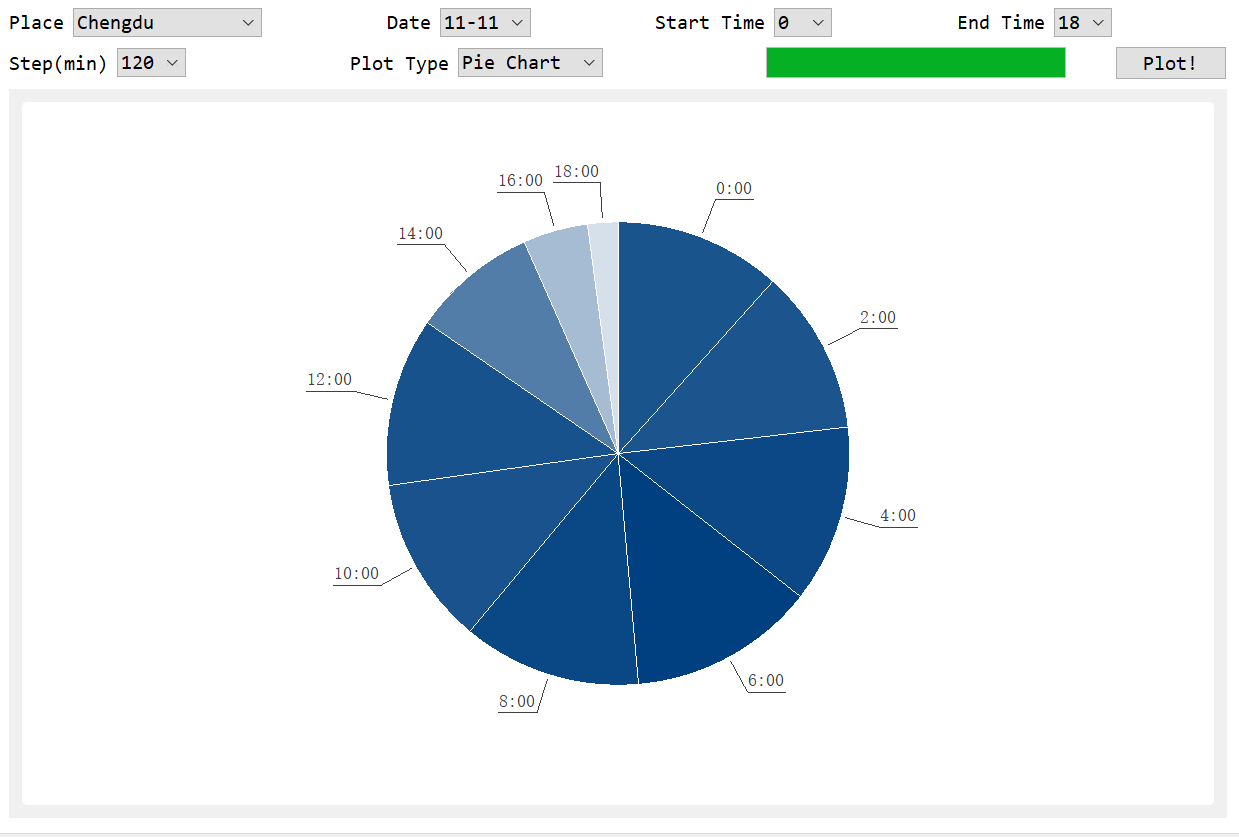
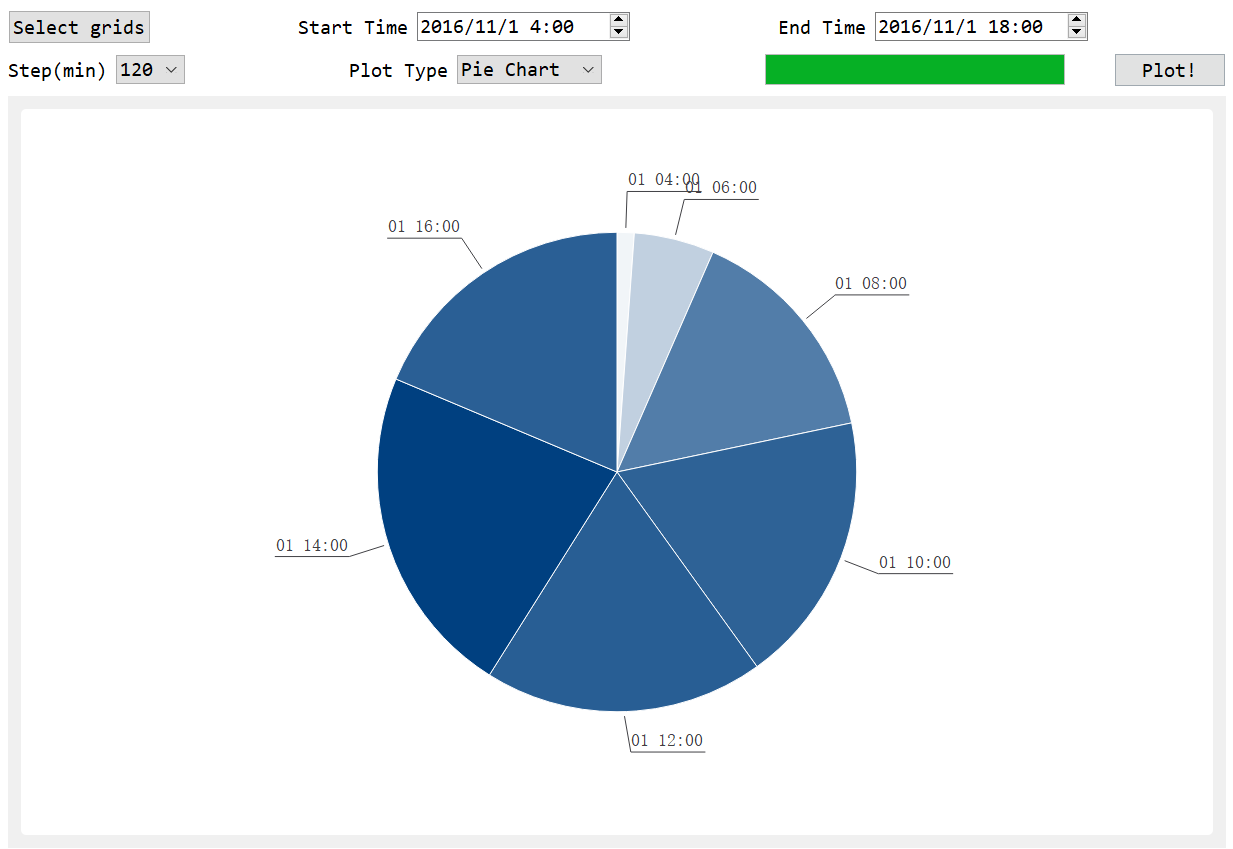
to:continue ver0.5

diff --git a/final/final/infoplot.cpp b/final/final/infoplot.cpp
@@ -102,28 +102,62 @@ void InfoPlot::plotMap() {
 }
 
 void InfoPlot::plotSeries() {
+    QFont font("consolas", 10);
     auto series = new QSplineSeries();
-    vector<pair<int, double>> data_series;
+    vector<pair<long long, double>> data_series;
     calcSeries(data_series);
     progress_bar->setValue(90);
-
-    for (const auto &wi : data_series)
+    double max_value = 0;
+    for (const auto &wi : data_series) {
         series->append(wi.first, wi.second);
+        max_value = std::max(max_value, wi.second);
+    }
+
     auto chart = new QChart();
     chart->setAnimationDuration(QChart::SeriesAnimations);
     chart->legend()->hide();
-    chart->createDefaultAxes();
+    //    chart->setTitle("Number of Orders");
+    chart->setFont(font);
+
+    // x_axis
+    auto x_axis = new QDateTimeAxis();
+    x_axis->setTickCount(10);
+
+    if (interval == DAY) {
+        x_axis->setFormat("hh:mm");
+        x_axis->setRange(QDateTime(QDate(2016, 11, 1), QTime(0, 0)), QDateTime(QDate(2016, 11, 2), QTime(0, 0)));
+    } else {
+        x_axis->setFormat("d hh:mm");
+        x_axis->setRange(QDateTime(QDate(2016, 11, 1), QTime(0, 0)), QDateTime(QDate(2016, 11, 16), QTime(0, 0)));
+    }
+    x_axis->setTitleText("time");
+    x_axis->setGridLineVisible(true);
+    x_axis->setLabelsAngle(-45);
+    x_axis->setLabelsFont(font);
+    x_axis->setLineVisible(true);
+
+    chart->addAxis(x_axis, Qt::AlignBottom);
+    series->attachAxis(x_axis);
+
+    // y_axis
+    auto y_axis = new QValueAxis();
+    y_axis->setLabelFormat("%.2f");
+    y_axis->setTitleText(info == FEE ? "average fee (RMB)" : "average time (min)");
+    y_axis->setRange(0, max_value);
+    y_axis->setLabelsFont(font);
+    chart->addAxis(y_axis, Qt::AlignLeft);
+
     chart->addSeries(series);
-    progress_bar->setValue(100);
     plot_area->setChart(chart);
+    progress_bar->setValue(100);
 }
 
-void InfoPlot::calcSeries(vector<pair<int, double>> &series) {
+void InfoPlot::calcSeries(vector<pair<long long, double>> &series) {
     const int step_min = 20;
     if (interval == DAY) {
         series.resize(24 * 60 / step_min);
-        for (int i = 0; i < 24 * 60; i += step_min)
-            series[i / step_min].first = i;
+        for (auto i = 0; i < 24 * 60; i += step_min)
+            series[i / step_min].first = i * 60 * 1000;
     }
     for (auto day = 1; day <= DAY_NUM; ++day) {
         for (auto i = 0; i + step_min < 24 * 60; i += step_min) {
@@ -133,13 +167,18 @@ void InfoPlot::calcSeries(vector<pair<int, double>> &series) {
             double num = 0;
             for (auto k = 0; k < GRID_NUM; ++k)
                 num += info == FEE ? db->feeCount(k, start_time, end_time) : db->timeCount(k, start_time, end_time);
+            if (info == TIME) num /= 60;
             if (interval == DAY)
-                series[i / step_min].second += num;
+                series[i / step_min].second += num / GRID_NUM;
             else
-                series.push_back(make_pair(time_now.toMSecsSinceEpoch(), num));
+                series.push_back(make_pair(time_now.toMSecsSinceEpoch(), num / GRID_NUM));
         }
     }
     if (interval == DAY)
         for (auto &wi : series)
             wi.second /= DAY_NUM;
 }
+
+void InfoPlot::calcArea(vector<pair<long long, pair<double, double>>> &area) { const int step_min = 20; }
+
+void InfoPlot::plotArea() {}

diff --git a/final/final/timeplot.cpp b/final/final/timeplot.cpp
@@ -140,19 +140,19 @@ void TimePlot::plotMap() {
         //        this->moveToThread(painter);
         //        db->moveToThread(painter);
         //        painter->start();
-        plotSeriesMap();
+        plotSeries();
     } else {
         //        auto painter = new myThread();
         //        connect(painter, &myThread::funcStart, this, &TimePlot::plotPieMap);
         //        this->moveToThread(painter);
         //        db->moveToThread(painter);
         //        painter->start();
-        plotPieMap();
+        plotPie();
     }
 }
 
 void TimePlot::calcSeries(vector<pair<long long, int>> &data_series) {
-    for (auto i = start_datetime.toSecsSinceEpoch(); i + step_min <= end_datetime.toSecsSinceEpoch();
+    for (auto i = start_datetime.toSecsSinceEpoch(); i + step_min * 60 <= end_datetime.toSecsSinceEpoch();
          i += step_min * 60) {
         int num = 0;
         for (auto &id : grid_id)
@@ -161,7 +161,7 @@ void TimePlot::calcSeries(vector<pair<long long, int>> &data_series) {
     }
 }
 
-void TimePlot::plotSeriesMap() {
+void TimePlot::plotSeries() {
     QFont font("consolas", 10);
     //    auto series = new QLineSeries();
     auto series = new QSplineSeries();
@@ -182,8 +182,8 @@ void TimePlot::plotSeriesMap() {
 
     // x_axis
     auto x_axis = new QDateTimeAxis();
-    x_axis->setTickCount(10);
-    x_axis->setFormat("dd h:mm ");
+    x_axis->setTickCount(8);
+    x_axis->setFormat("dd h:mm");
     x_axis->setTitleText("time");
     x_axis->setGridLineVisible(true);
     x_axis->setLabelsAngle(-45);
@@ -196,7 +196,7 @@ void TimePlot::plotSeriesMap() {
     // y_axis
     auto y_axis = new QValueAxis();
     y_axis->setLabelFormat("%i");
-    y_axis->setTitleText("order number");
+    y_axis->setTitleText("order number/step minutes");
     y_axis->setRange(0, max_value);
     y_axis->setLabelsFont(font);
     chart->addAxis(y_axis, Qt::AlignLeft);
@@ -211,7 +211,7 @@ void TimePlot::plotSeriesMap() {
     //    emit resetPlot(this);
 }
 
-void TimePlot::plotPieMap() {
+void TimePlot::plotPie() {
     QFont font("consolas", 10);
     auto series = new QPieSeries();
     vector<pair<long long, int>> data_series;

diff --git a/final/final/infoplot.h b/final/final/infoplot.h
@@ -19,8 +19,10 @@ class InfoPlot : public xxxPlot {
     QPushButton *apply_button;
     QChartView *plot_area;
     // time(Msec) + num
-    void calcSeries(vector<pair<int, double>> &);
+    void calcSeries(vector<pair<long long, double>> &);
+    void calcArea(vector<pair<long long, pair<double, double>>> &);
     void plotSeries();
+    void plotArea();
 
   private:
     const int WIDTH, HEIGHT;

diff --git a/final/final/timeplot.h b/final/final/timeplot.h
@@ -40,8 +40,8 @@ class TimePlot : public xxxPlot {
     QComboBox *type_combo;
     QProgressBar *progress_bar;
     QPushButton *plot_button;
-    void plotSeriesMap();
-    void plotPieMap();
+    void plotSeries();
+    void plotPie();
     // time(Msec) + num
     void calcSeries(vector<pair<long long, int>> &);
 };

diff --git a/final/log.md b/final/log.md
@@ -4,13 +4,11 @@
 - [ ] 图标
 - [ ] 支持后期删除和加入数据x
 - [ ] 数据选择
-- [ ] 数据可视化
 - [ ] 地图绘制
 - [ ] elective：thermal/direction
 - [ ] elective：route plan (单源最短路)
-- [ ] 增加数据处理线程
-- [ ] 多线程计算
-- [ ] 多线程加快读入
+- [ ] 增加数据处理线程x
+- [ ] 多线程加快读入x
 - [ ] 修复内存泄漏x
 
 ### 开发中
@@ -100,7 +98,10 @@ lambda表达式和函数指针真好用.jpg
 - [x] 使用QDateTimeEdit，修复时间转换的bug，~~大家都喜欢晚上开车.jpg~~
 - [x] 增加一个可以选择`grid`的`Dialog`
 - [ ] 给上述`Dialog`添加背景图片
-- [ ] `InfoPlot`增加流入流出对比
+- [ ] `Animation`没有效果
+- [ ] 折线图拖动时坐标轴不会变化....
+- [x] `InfoPlot`添加注记、坐标轴
+- [ ] `InfoPlot`增加流入流出对比，添加`Dialog`选择grid id
 - [x] 程序结束后段错误......由于不同地方用了同一个spacer的指针....
 - [x] 画图速度太快了....直接在主线程处理....
 
